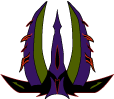
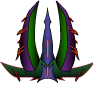
Added support for animated textures

diff --git a/src/Object.cpp b/src/Object.cpp
@@ -1,4 +1,5 @@
 #include "Object.h"
+#include <iostream>
 
 Object::Object()
 {
@@ -17,6 +18,14 @@ Object::Object()
     can_take_damage = false;
 
     dead = false;
+
+    animated = false;
+    frame_num = 0;
+    num_frames = 0;
+    frame_w = 0;
+    frame_h = 0;
+    tiles_x = 0;
+    tiles_y = 0;
 
     TEX_INDEX = 1;
 }
@@ -79,5 +88,51 @@ bool Object::is_dead()
 
 void Object::render( int x, int y, float ang )
 {
-    textures[TEX_INDEX].render( x, y, NULL, ang );
+    if( animated )
+    {
+        LTexture* tex = &textures[TEX_INDEX];
+        SDL_Rect frame;
+
+        if( frame_w == 0 )
+        {
+            if( tiles_x == 0 )
+            {
+                std::cerr<<"Either frame_w or tiles_x must be defined for animated textures"<<std::endl;
+                return;
+            } else {
+                frame_w = tex->getWidth()/tiles_x;
+            }
+        }
+        if( frame_h == 0 )
+        {
+            if( tiles_y == 0 )
+            {
+                std::cerr<<"Either frame_h or tiles_y must be defined for animated textures"<<std::endl;
+                return;
+            } else {
+                frame_h = tex->getHeight()/tiles_y;
+            }
+        }
+
+        if( tiles_x == 0 )
+            tiles_x = tex->getWidth()/frame_w;
+        if( tiles_y == 0 )
+            tiles_y = tex->getHeight()/frame_h;
+
+        if( num_frames == 0 )
+            num_frames = tiles_x * tiles_y;
+
+        frame.w = frame_w;
+        frame.h = frame_h;
+        frame.x = (frame_num % tiles_x) * frame_w;
+        frame.y = (frame_num / tiles_x) * frame_h;
+        x += (tex->getWidth()/2-frame.w/2);
+        y += (tex->getHeight()/2-frame.h/2);
+
+        tex->render( x, y, &frame, ang );
+
+        frame_num = (frame_num + 1) % num_frames;
+
+    } else
+        textures[TEX_INDEX].render( x, y, NULL, ang );
 }

diff --git a/src/Object.h b/src/Object.h
@@ -32,7 +32,7 @@ class Object
         //function for sending private values to other functions in bulk
         //(to avoid making a bunch of separate public 'get' methods)
         void get_values(float* xPos_out, float* yPos_out, float* Angle_out);
-        void get_values(float* xPos_out, float* yPos_out, float* xVel_out, float* yVel_out, float* Angle_out, float* rotVel_out);
+        void get_values(float* xPos_out, float* yPos_out, float* Angle_out, float* xVel_out, float* yVel_out, float* rotVel_out);
 
         virtual void render( int x, int y, float ang );
 
@@ -54,6 +54,19 @@ class Object
 
         //the index of the default image to render for instances of this object
         int TEX_INDEX;
+
+        //whether or not the image is to be animated
+        bool animated;
+        //whether the animation loops or not
+        bool anim_loops;
+        //if animated, which frame to render
+        int frame_num;
+        //how many frames in the animation; defaults tiles_x*tiles_y
+        int num_frames;
+        //how many tiles of an animation are on each row and column of the image
+        int tiles_x, tiles_y;
+        //animation frame dimensions
+        int frame_w, frame_h;
 
         //object's current position (represents the center of the ship, not the topleft corner)
         float xPos, yPos;

diff --git a/src/MovingObject.cpp b/src/MovingObject.cpp
@@ -106,9 +106,11 @@ void MovingObject::onCollide( Object* collided_with )
         /////
 
         //damage the object depending on how fast it was moving when it collided
+        float xVel_other, yVel_other, dummy;
+        collided_with->get_values(&dummy, &dummy, &dummy, &xVel_other, &yVel_other, &dummy);
         float vel_old_squared = abs( xVel_old * xVel_old ) + abs( yVel_old * yVel_old );
-        //float vel_other_squared = abs( 
-        int damage = vel_old_squared / 5;
+        float vel_other_squared = abs( xVel_other * xVel_other ) + abs( yVel_other * yVel_other );
+        int damage = abs( vel_old_squared - vel_other_squared ) / 5; //magic number: needs to be named and moved
         takeDamage( damage );
         collided_with->takeDamage( damage );
     }

diff --git a/src/Constants.h b/src/Constants.h
@@ -66,7 +66,8 @@ static const std::string imgarr[] = {
     "media/player/Health/health0.png",
     "media/Asteroid.png",
     "media/Mini_Asteroid.png",
-    "media/Tiny_Asteroid.png"
+    "media/Tiny_Asteroid.png",
+    "media/explosion.png"
 };
 
 // these must be in the same order as the above
@@ -105,7 +106,8 @@ enum TextureIndex { // Constants containing the index numbers of the vector of i
     HEALTH_0,
     ASTEROID,
     MINI_ASTEROID,
-    TINY_ASTEROID
+    TINY_ASTEROID,
+    ANIMATION
 };
 
 enum ObjectType { // Constants for identifying object type, to avoid doing string compares

diff --git a/src/Ship.cpp b/src/Ship.cpp
@@ -120,8 +120,11 @@ void Ship::shoot()
         ang = ang / 180;
         float xv = xVel + Laser::VEL * sin(ang);
         float yv = yVel - Laser::VEL * cos(ang);
+        //float xp = xPos + Collider.r * sin(ang);
+        //float yp = yPos - Collider.r * cos(ang);
         //laser_pool.back()->set_values(xPos, yPos, Angle, xv, yv, Laser::LIFESPAN);
         laser_pool.back()->set_values(xPos, yPos, Angle, xv, yv);
+        //laser_pool.back()->set_values(xp, yp, Angle, xv, yv);
 
         active_lasers.push_back( laser_pool.back() );
         objects.push_back( laser_pool.back() );

diff --git a/src/Alien.cpp b/src/Alien.cpp
@@ -12,9 +12,9 @@ Alien::Alien(float xp, float yp, float ang )
     SHIP_REV_ACCEL = 0.04;
     //SHIP_STRAFE_ACCEL = 
     SHIP_ROT_ACCEL = 0.03;
-
-    Collider.r =
         */
+
+    Collider.r = 50;
 
     xPos = xp;
     yPos = yp;
@@ -27,8 +27,13 @@ Alien::Alien(float xp, float yp, float ang )
     rotVel = 1.0;
 
     MAX_HP = 200;
-    hitpoints = 200;
+    hitpoints = MAX_HP;
 
-    TEX_INDEX = ALIEN;
+    animated = true;
+    tiles_x = 17;
+    tiles_y = 2;
+
+    TEX_INDEX = ANIMATION;
+    //TEX_INDEX = ALIEN;
 }
 

diff --git a/src/Laser.cpp b/src/Laser.cpp
@@ -14,7 +14,6 @@ int Laser::get_type()
     return T_LASER;
 }
 
-//void Laser::set_values(float x, float y, float ang, float xv, float yv, int time)
 void Laser::set_values(float x, float y, float ang, float xv, float yv)
 {
     xPos = x;
@@ -22,7 +21,6 @@ void Laser::set_values(float x, float y, float ang, float xv, float yv)
     Angle = ang;
     xVel = xv;
     yVel = yv;
-    //time_left = time;
     time_left = LIFESPAN;
     dead = false;
 }

diff --git a/src/main.cpp b/src/main.cpp
@@ -168,7 +168,7 @@ bool loadMedia()
 void loadObjects()
 {
     objects.push_back( new Planet(500.0, 500.0) );
-    objects.push_back( new Alien(200.0, 0.0, -35.0) );
+    objects.push_back( new Alien(200.0, -50.0, -35.0) );
     objects.push_back(myasteroid);
     //objects.push_back( &player );
     

diff --git a/src/Laser.h b/src/Laser.h
@@ -30,6 +30,9 @@ class Laser : public MovingObject
         //how many cycles the laser missile has left before it disappears
         int time_left;
 
+        //ID of player who shot this laser
+        int owner;
+
 
 };
 
